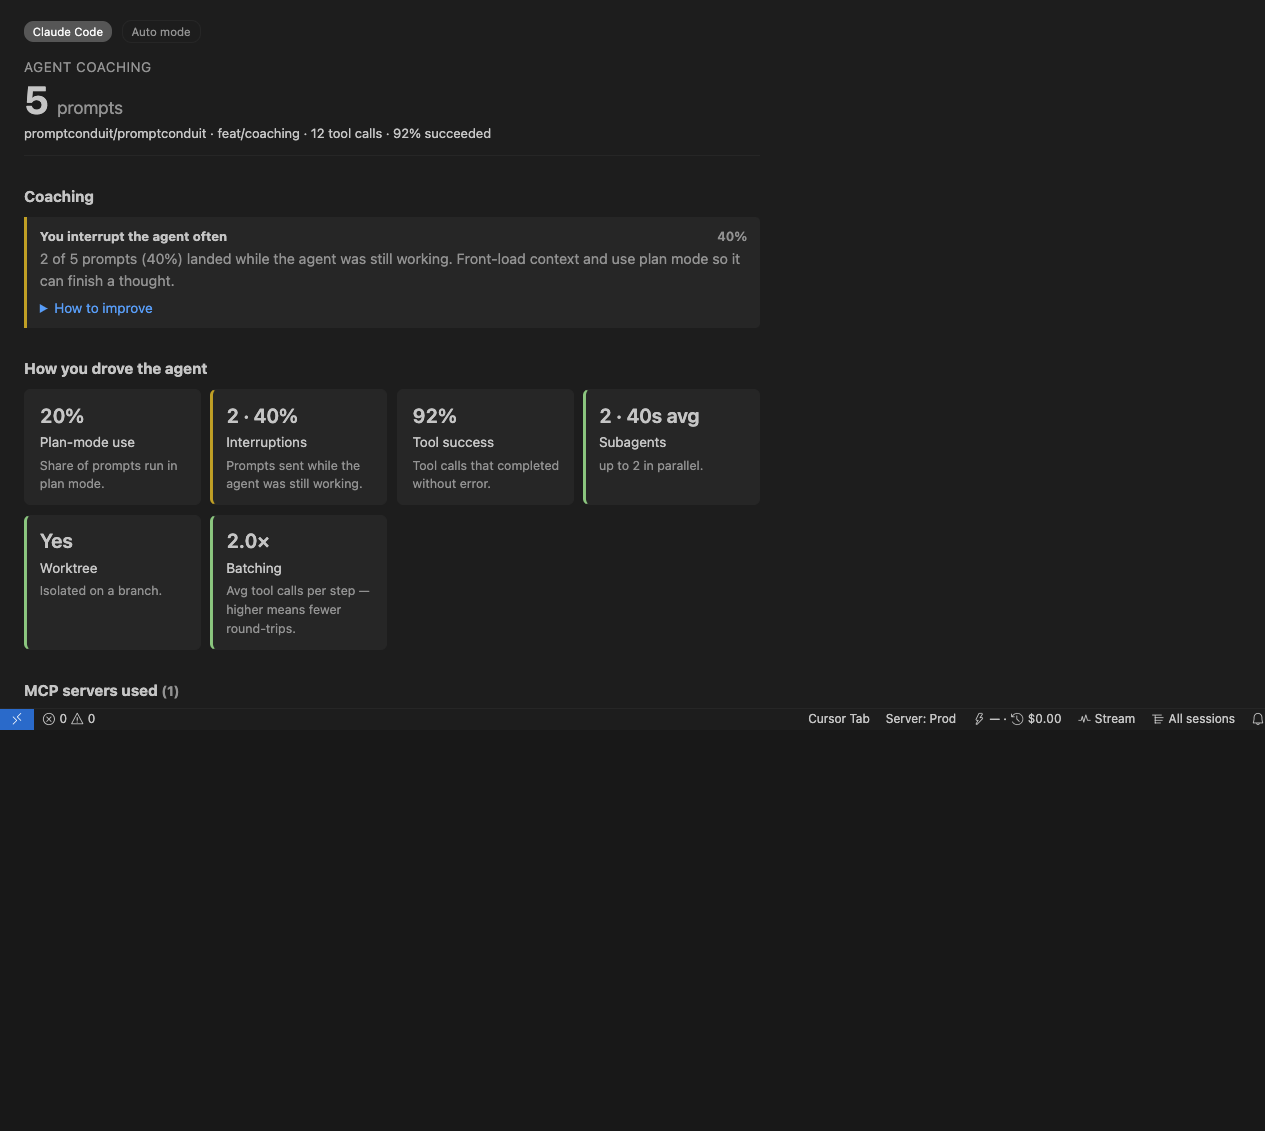
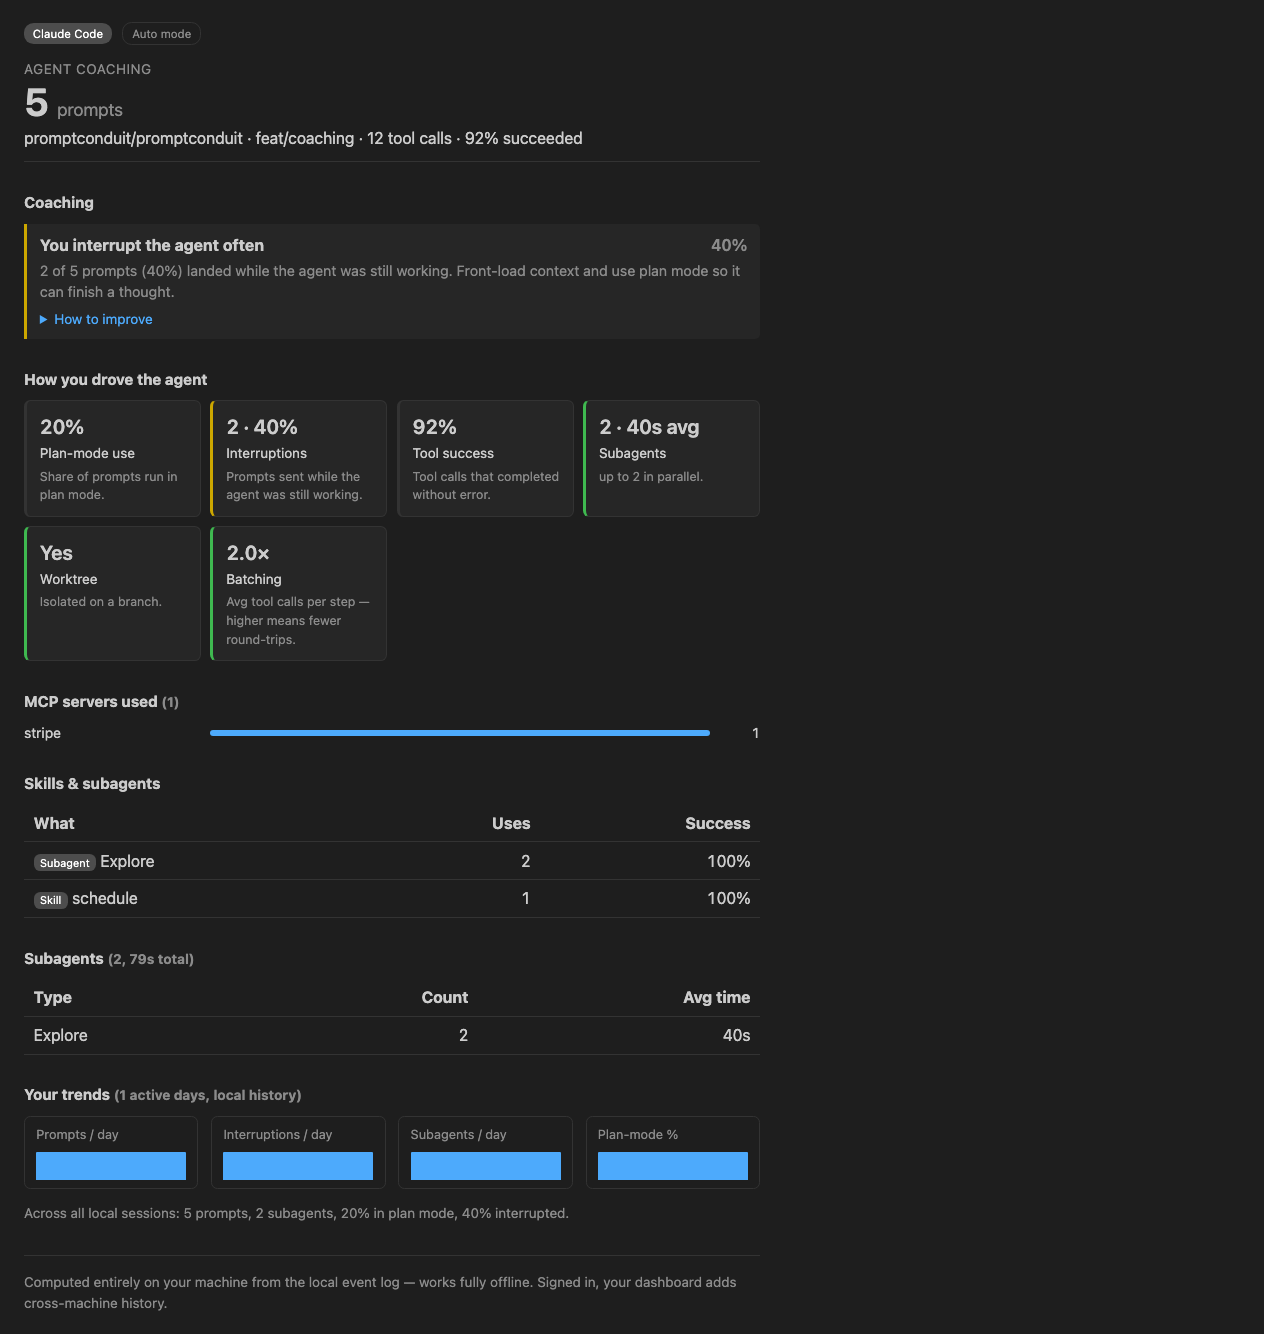
docs: refresh all Open VSX screenshots for current UI
Regenerate cost, graph, stream, theater, and coaching images from the
preview build. Add graph to README and npm run refresh-screenshots helper.

diff --git a/README.md b/README.md
@@ -29,6 +29,8 @@ Advanced drawer.
 **Session Graph** — a live tree of prompts, tools, subagents, and worktrees
 (command palette: *PromptConduit: Show Session Graph*).
 
+![Session Graph panel in Cursor](https://raw.githubusercontent.com/promptconduit/editor-extension/main/resources/screenshots/graph-window.png)
+
 **Stream** — a live event feed (command palette: *PromptConduit: Show Stream Panel*).
 
 ![Stream panel in Cursor](https://raw.githubusercontent.com/promptconduit/editor-extension/main/resources/screenshots/stream-window.png)

diff --git a/CHANGELOG.md b/CHANGELOG.md
@@ -2,6 +2,11 @@
 
 ## Unreleased
 
+## 0.21.1
+
+- **Refreshed Open VSX / README screenshots** for all panels (cost breakdown,
+  session graph, stream, orchestration theater, agent coaching) using current UI.
+
 ## 0.21.0
 
 - **Simpler cost home — cost per prompt first.** One status-bar item
